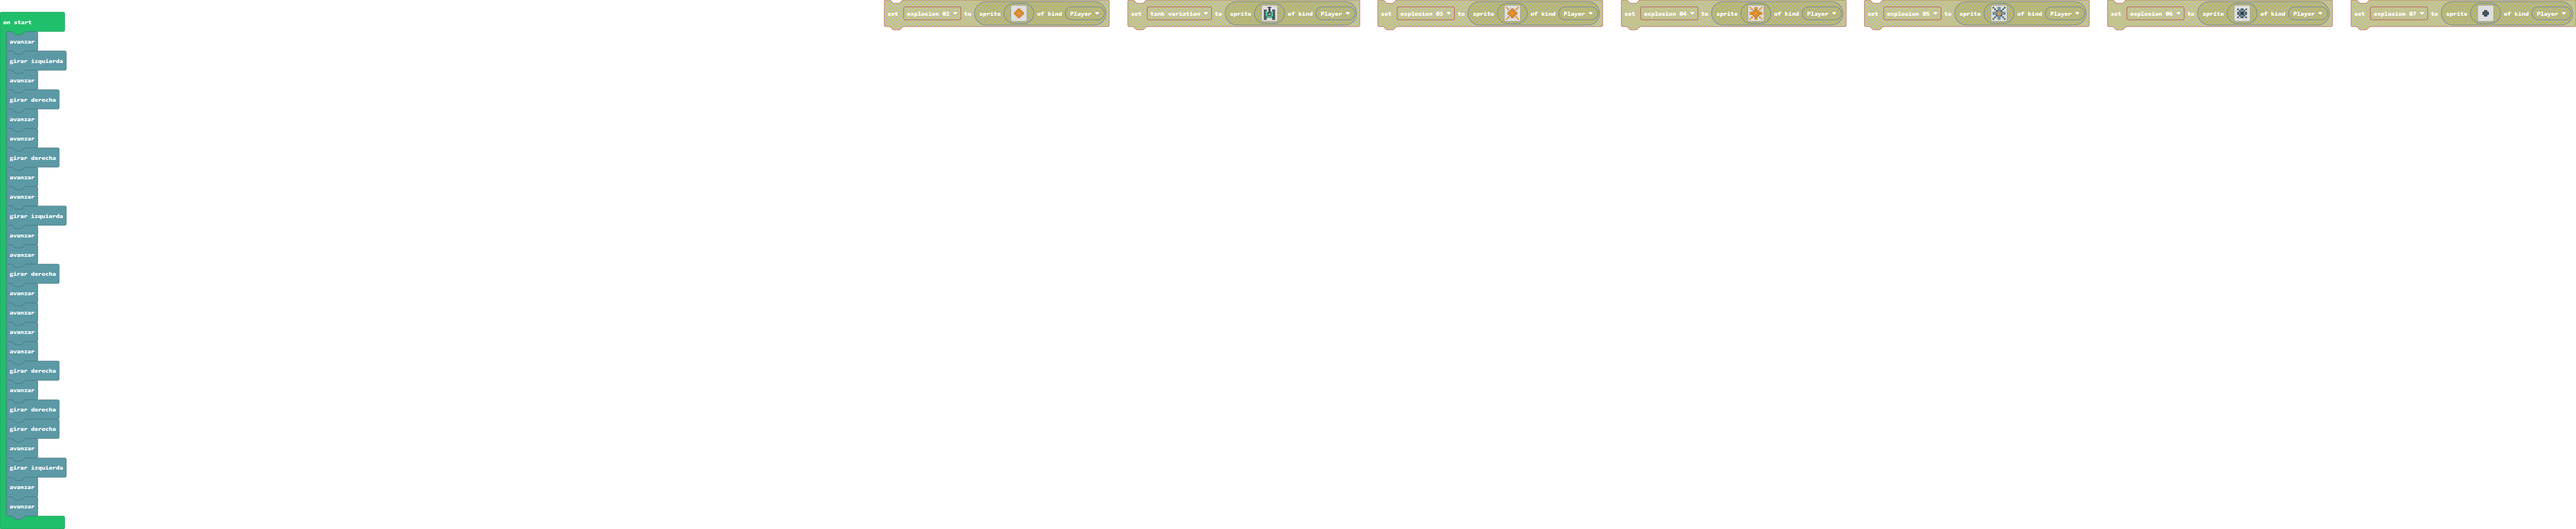
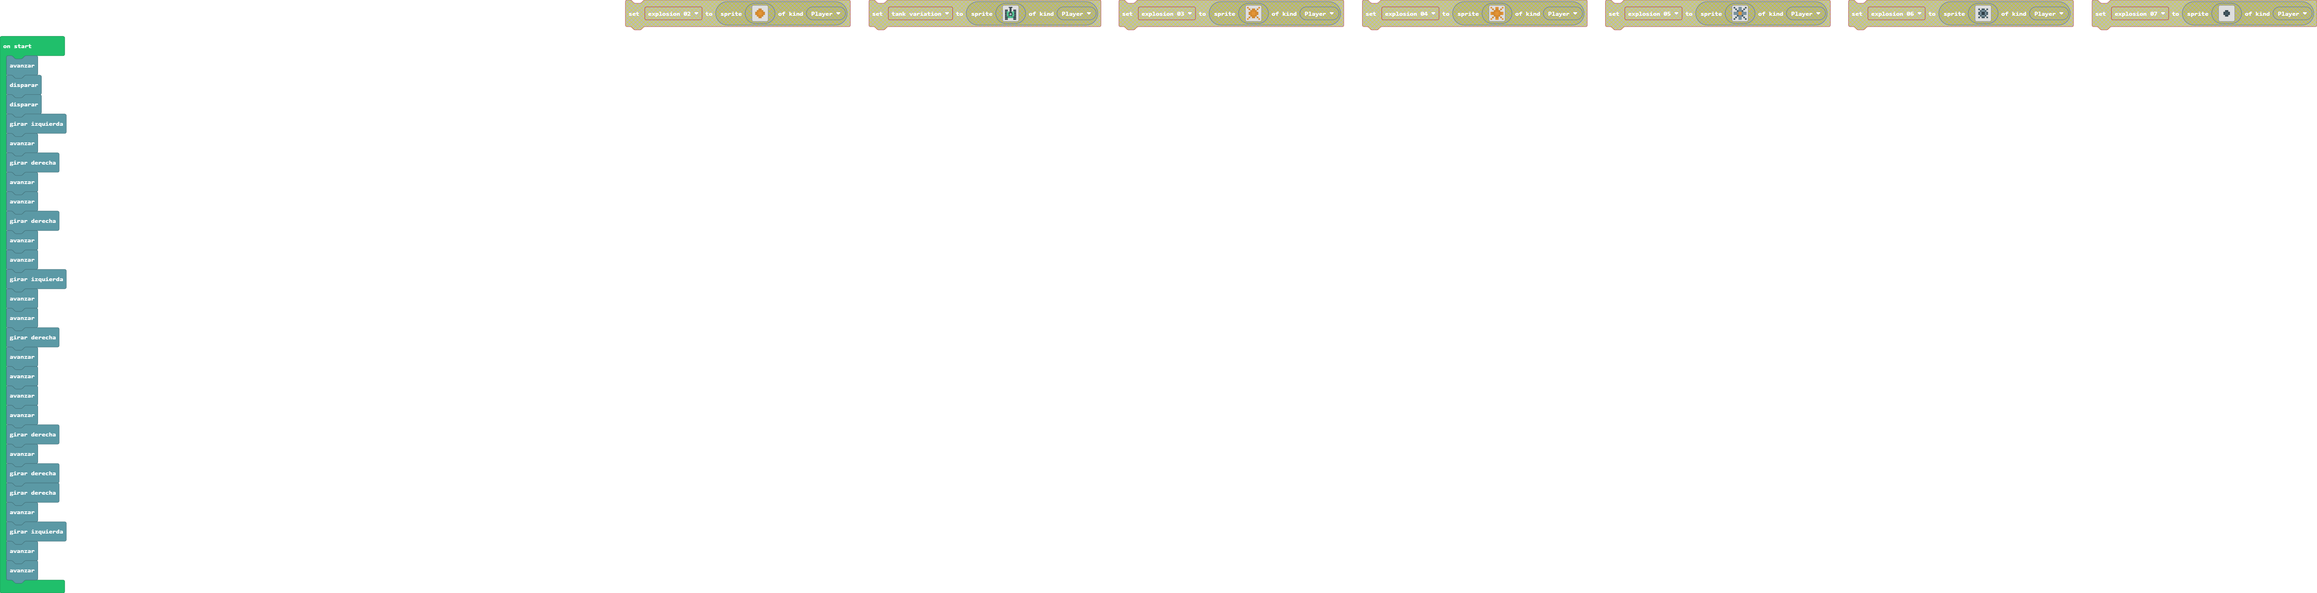
update

Changed region(s): [[0.25, 0.0, 1.0, 0.0611], [0.0, 0.0, 0.0312, 1.0]]

diff --git a/board.ts b/board.ts
@@ -71,17 +71,17 @@ class Board {
             [null, new Stone(), null, null, new Stone(), new Stone(), new Stone()],
         ];
 
-        // this.gas = [
-        //     [null, null, null, null, null, new Gas(), null],
-        //     [null, null, null, new Gas(), null, null, null],
-        //     [null, new Gas(), null, null, null, null, new Gas()],
-        //     [null, null, null, null, new Gas(), null, null],
-        //     [null, new Gas(), null, new Gas(), null, null, null],
-        //     [null, null, null, null, null, null, null],
-        //     [null, new Gas(), null, new Gas(), null, new Gas(), null],
-        //     [new Gas(), null, new Gas(), null, null, null, null],
-        //     [null, new Gas(), null, null, new Gas(), new Gas(), new Gas()],
-        // ];
+        this.gas = [
+            [null, null, null, null, null, null, null],
+            [null, null, null, null, null, null, null],
+            [null, null, null, null, null, null, null],
+            [null, null, null, null, null, null, null],
+            [null, null, null, null, null, null, new Gas()],
+            [null, null, null, null, null, null, null],
+            [null, null, null, null, null, null, null],
+            [null, null, null, null, null, null, new Gas()],
+            [null, null, null, null, null, null, null],
+        ];
 
         for (let c = 0; c < this.columns; c++) {
             for (let r = 0; r < this.rows; r++) {
@@ -91,6 +91,10 @@ class Board {
                 if (this.stones[c][r]) {
                     let cell = this.cells[c][r];
                     this.stones[c][r].setPosition(cell.sprite.x, cell.sprite.y);
+                }
+                if (this.gas[c][r]) {
+                    let cell = this.cells[c][r];
+                    this.gas[c][r].setPosition(cell.sprite.x, cell.sprite.y);
                 }
             }
         }

diff --git a/main.ts b/main.ts
@@ -1,26 +1,44 @@
 movimientos.avanzar()
+movimientos.girarIzquierda()
+movimientos.avanzar()
+movimientos.girarDerecha()
+movimientos.avanzar()
+movimientos.avanzar()
+movimientos.girarDerecha()
+movimientos.avanzar()
+movimientos.avanzar()
+movimientos.girarIzquierda()
+movimientos.avanzar()
+movimientos.avanzar()
+movimientos.girarDerecha()
+movimientos.avanzar()
+movimientos.avanzar()
+movimientos.avanzar()
+movimientos.avanzar()
+movimientos.girarDerecha()
+movimientos.avanzar()
+movimientos.girarDerecha()
+movimientos.girarDerecha()
+movimientos.avanzar()
+movimientos.girarIzquierda()
+movimientos.avanzar()
+movimientos.avanzar()
+movimientos.avanzar()
+movimientos.avanzar()
+movimientos.girarDerecha()
+movimientos.avanzar()
+movimientos.girarIzquierda()
 movimientos.disparar()
-movimientos.girarIzquierda()
-movimientos.avanzar()
-movimientos.girarDerecha()
 movimientos.avanzar()
 movimientos.avanzar()
 movimientos.girarDerecha()
-movimientos.avanzar()
-movimientos.avanzar()
-movimientos.girarIzquierda()
-movimientos.avanzar()
+movimientos.disparar()
 movimientos.avanzar()
 movimientos.girarDerecha()
 movimientos.avanzar()
+movimientos.disparar()
 movimientos.avanzar()
-movimientos.avanzar()
-movimientos.avanzar()
-movimientos.girarDerecha()
-movimientos.avanzar()
-movimientos.girarDerecha()
-movimientos.girarDerecha()
 movimientos.avanzar()
 movimientos.girarIzquierda()
 movimientos.avanzar()
-movimientos.avanzar()
+

diff --git a/gas.ts b/gas.ts
@@ -1,4 +1,9 @@
-const gasImage = img`
+
+class Gas {
+    sprite: Sprite;
+
+    constructor(){
+        this.sprite = sprites.create(img`
 3 1 1 1 1 1 2 
 3 1 1 1 1 1 1 
 3 1 e e e 1 1 
@@ -8,15 +13,14 @@ const gasImage = img`
 1 1 e e e 1 2 
 3 1 1 1 1 1 2 
 1 1 1 1 1 1 2 
-`;
-class Gas {
-    sprite: Sprite;
-
-    constructor(){
-        this.sprite = sprites.create(gasImage);
+`);
     }
 
     setPosition(x: number, y: number): void {
         this.sprite.setPosition(x, y);
+    }
+
+    destroy(): void {
+        this.sprite.destroy();
     }
 }

diff --git a/tank.ts b/tank.ts
@@ -222,6 +222,14 @@ f f f f f f f f f f f .
             }
             basic.pause(50);
         }
+
+
+        if (this.board.gas[this.cell.column][this.cell.row]){
+            this.gasoline = 14;
+            panel.drawLeftEnergy(this.gasoline);
+            this.board.gas[this.cell.column][this.cell.row].destroy();
+            this.board.gas[this.cell.column][this.cell.row] = null;
+        }
     }
 
     rotateLeft() {
